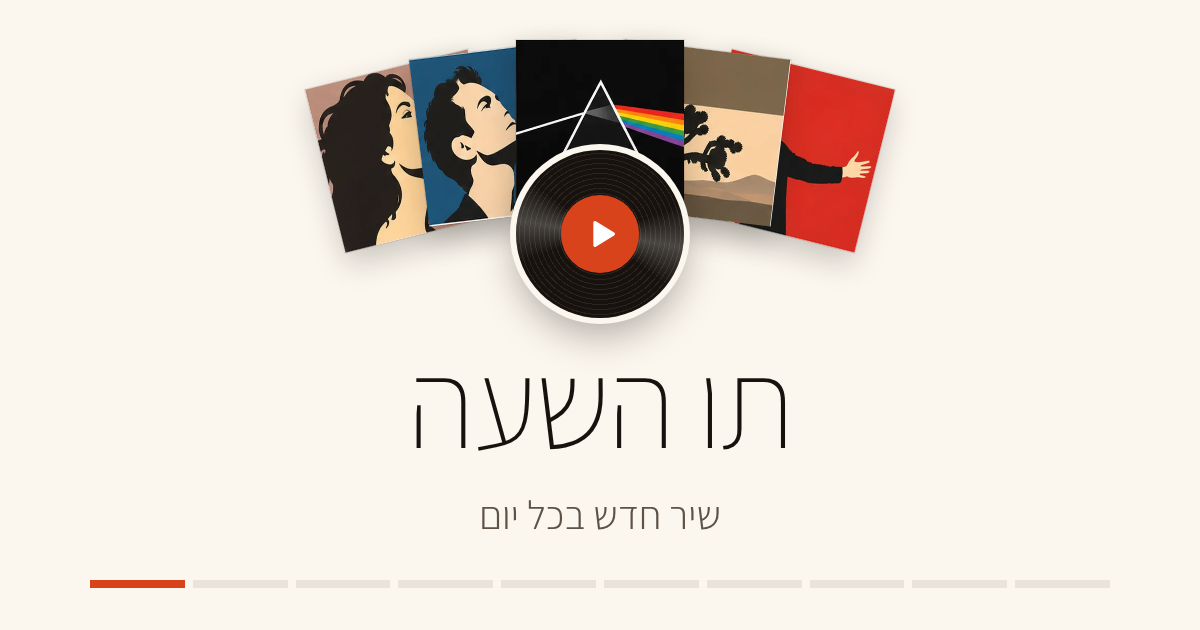
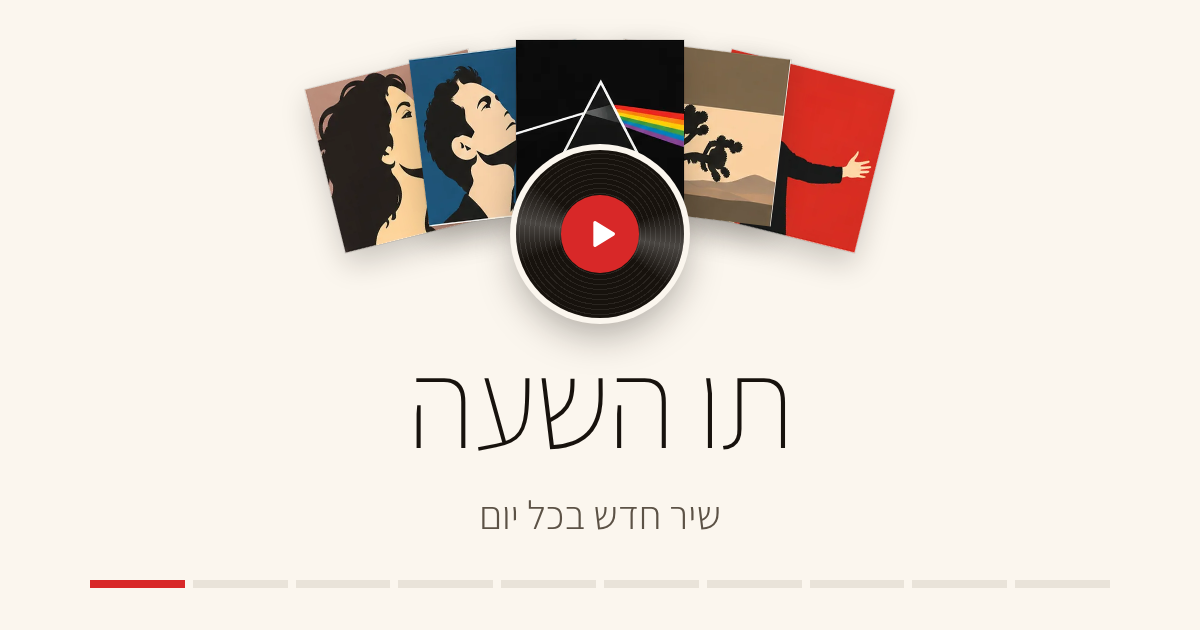
Change the accent colour every day, and leave more room between the record and its label
The accent now comes from a palette of seven colours taken from the covers (their reds, blues, golds,
purples, oranges, greens and wines: the most common colour of each hue, darkened where needed to
reach at least 3.8:1 on the paper, and at least 4:1 for white on it). Day N gets ACCENTS[(N - 1) % 7]; the
order alternates warm and cool so two days in a row never look alike. Only --accent and its light tint
--accent-l change: the paper, the ink and the grays stay. The head sets it before the page is drawn, so
nothing flashes, and the main script sets it again with the exact day (an earlier day or a ?preview day
has its own colour). The share image, which cannot change, uses the first of them.

The record and its label ("שחקו") are 28px apart instead of 10, so the pulsing ring no longer touches
the text.

Claude-Session: https://claude.ai/code/session_01AoHjZZDDJWhZrEPR356cAG

Changed region(s): [[0.4625, 0.3016, 0.555, 0.4524], [0.0617, 0.9048, 0.1542, 0.9349]]

diff --git a/index.html b/index.html
@@ -13,7 +13,7 @@
 <meta property="og:description" content="שיר חדש בכל יום. מתחילים עם חצי שנייה מתחילת השיר, וכל דילוג או ניחוש שגוי מוסיפים עוד חצי שנייה.">
 <meta property="og:url" content="https://whats-the-song.vercel.app/">
 <meta property="og:locale" content="he_IL">
-<meta property="og:image" content="https://whats-the-song.vercel.app/og.png?v=5">
+<meta property="og:image" content="https://whats-the-song.vercel.app/og.png?v=6">
 <meta property="og:image:width" content="1200">
 <meta property="og:image:height" content="630">
 <meta property="og:image:alt" content="תו השעה: מניפת עטיפות אלבומים מאוירות ותקליט עם כפתור נגינה, שיר חדש בכל יום">
@@ -24,12 +24,13 @@
 <style>
 
   /* Quiet and flat: warm cream paper, near-black ink, warm grays, hairlines, light type, square corners. The colours come
-     from the album covers in covers/: their cream and black, and their red-orange as the one accent, used only in small
-     places (progress, rings, the record's label, correct answers, link underlines, focus). State is still shown with
-     fill, outline and icons as well as colour. Light only, no dark mode.
-     Contrast on the paper: --ink 17.3:1, --muted 7.1:1, --mid 3.7:1 (borders), --accent 4.1:1 (white on it 4.4:1).
-     --accent is for fills, rings and lines, not for text; --accent-l (mustard) is the light tint for marks on a dark
-     (--ink) row and for the drawn sleeves. The line and soft tints are --mid mixed into the paper. */
+     from the album covers in covers/: their cream and black, and one accent that changes every day (see ACCENTS in the
+     head), used only in small places (progress, rings, the record's label, correct answers, link underlines, focus).
+     State is still shown with fill, outline and icons as well as colour. Light only, no dark mode.
+     Contrast on the paper: --ink 17.3:1, --muted 7.1:1, --mid 3.7:1 (borders); every accent of the week is at least
+     3.8:1 on it, and white on any of them as well. --accent is for fills, rings and lines, not for text; --accent-l is
+     the accent mixed with white, the light tint for marks on a dark (--ink) row and for the drawn sleeves. The line and
+     soft tints are --mid mixed into the paper. */
   :root {
     color-scheme: light;
     --paper: #fbf6ee;
@@ -39,8 +40,8 @@
     --soft: #f2ece4;
     --soft-2: #e9e3d9;
     --mid: #8a7d6c;
-    --accent: #d9431c;
-    --accent-l: #f2b705;
+    --accent: #d82828;                              /* the accent changes every day (see ACCENTS in the head); this is the fallback */
+    --accent-l: #f3bfbf;
     --shade: 23, 18, 13;                            /* the colour of shadows, as r, g, b */
   }
   * { box-sizing: border-box; }
@@ -282,7 +283,7 @@
   .sleeve .p { fill: var(--paper); } .sleeve .s { fill: var(--soft-2); }
   @keyframes deal { from { transform: translate(0, 26px) rotate(0deg) scale(.7); } }
   .vinyl {
-    position: relative; z-index: 2; display: flex; flex-direction: column; align-items: center; gap: 10px;
+    position: relative; z-index: 2; display: flex; flex-direction: column; align-items: center; gap: 28px;   /* room for the ring that pulses around the record */
     margin: 0 auto; padding: 0; background: none; border: 0; color: var(--ink); cursor: pointer;
   }
   .vwrap { position: relative; display: block; width: 112px; height: 112px; transition: transform .15s ease; animation: rise .7s cubic-bezier(.2, .8, .2, 1) .5s both; }
@@ -393,6 +394,26 @@
     *, *::before, *::after { animation: none !important; transition: none !important; }
   }
 </style>
+<script>
+  // One accent colour per day. The seven come from the covers in covers/ (their reds, blues, oranges, greens, purples and
+  // golds, taken from the most common colour of each hue and darkened where needed to reach about 4:1 on the paper). Only
+  // the accent changes: the paper, the ink and the grays stay as they are. Day N gets ACCENTS[(N - 1) % 7], and the order
+  // alternates warm and cool so two days in a row never look alike. --accent-l, the light tint, is the accent mixed with
+  // white. This runs before the page is drawn so nothing flashes; the main script sets it again with the exact day.
+  window.ACCENTS = ['#d82828', '#0a6eaa', '#977a05', '#884898', '#cf5714', '#386848', '#8c1d2c'];
+  window.setAccent = function (day) {
+    var c = window.ACCENTS[(((day - 1) % window.ACCENTS.length) + window.ACCENTS.length) % window.ACCENTS.length], t = [1, 3, 5].map(function (i) {
+      return Math.round(parseInt(c.substr(i, 2), 16) * 0.28 + 255 * 0.72);
+    });
+    document.documentElement.style.setProperty('--accent', c);
+    document.documentElement.style.setProperty('--accent-l', 'rgb(' + t.join(',') + ')');
+  };
+  (function () {
+    var q = new URLSearchParams(location.search), n = new Date(), asked = parseInt(q.get('day'), 10);
+    var today = Math.round((Date.UTC(n.getFullYear(), n.getMonth(), n.getDate()) - Date.UTC(2026, 9, 31)) / 86400000) + 1;
+    window.setAccent(q.has('preview') ? (asked || today) : (asked >= 1 && asked <= today ? asked : today));
+  })();
+</script>
 </head>
 <body>
 <main class="app" data-screen="home" data-state="before">
@@ -562,6 +583,7 @@
   const asked = parseInt(params.get('day'), 10);    // ?day=2 plays an earlier day, saved like any other; later days are not open yet
   const dayNo = previewMode ? (asked || today) : asked >= 1 && asked <= today ? asked : today;
   const isToday = dayNo === today;
+  window.setAccent(dayNo);                          // the accent of this day (the head already set it from the same rule)
   const answer = SONGS[(((dayNo - 1) % SONGS.length) + SONGS.length) % SONGS.length];
 
   // ---------- saved progress ----------
